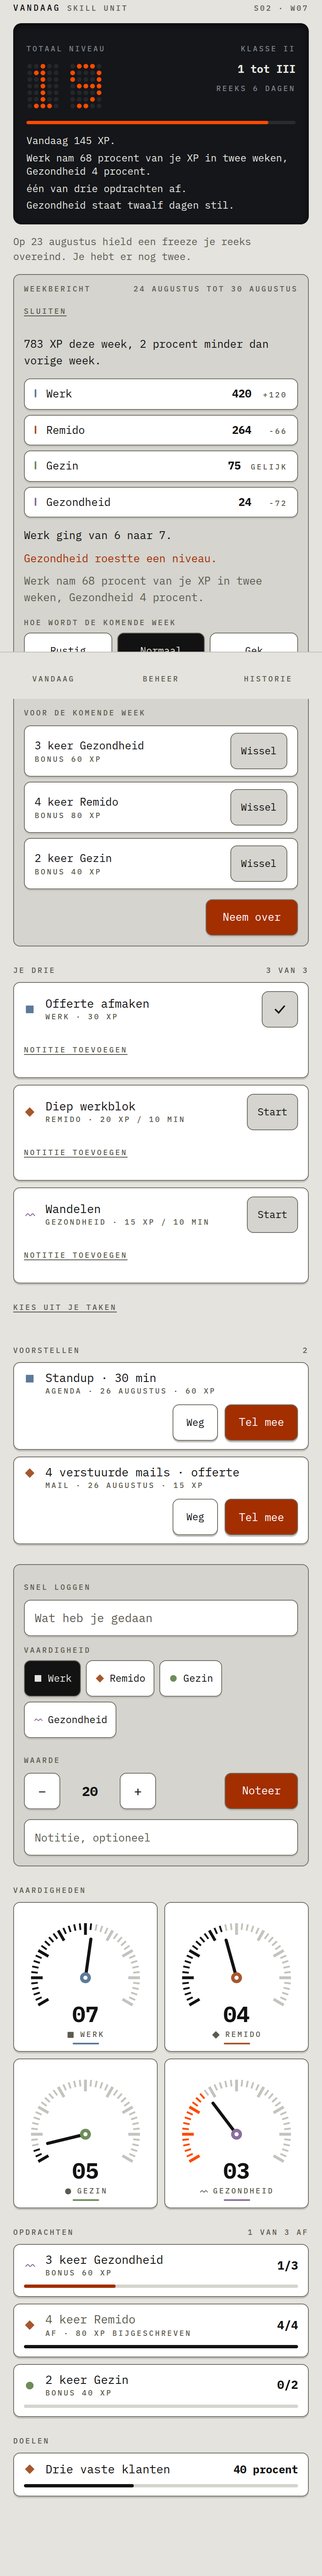
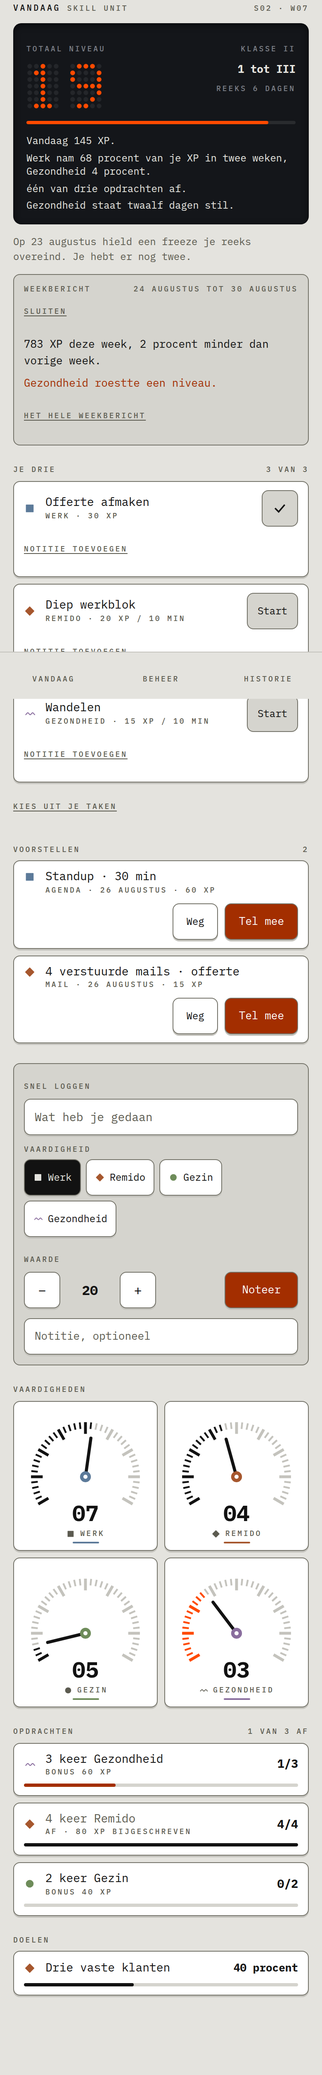
Het weekbericht opent gevouwen
Bevinding 20 was half opgelost: het display stond weer bovenaan, maar het
bericht is zo'n 800 px, dus het eerste vinkje schoof op zondag naar 1197 px —
verder weg dan voor het herstel, doordat de knoppen van 44 px alles hoger
maken. Nu 592 px, oftewel zeven tiende scherm in plaats van anderhalf.

Boven de vouw blijft niet alleen de vergelijkingszin staan maar ook de
roestregel. Alleen de eerste zin tonen zou de slechtste meting van het scherm
achter een tik zetten, en dat is precies wat de roterende statusregel deed.

De knop is in beide standen hetzelfde element, dus uit- en inklappen houdt het
toetsenbord waar het was; gemeten. De dichtgevouwen helft staat op hidden en is
daarmee ook uit de tabvolgorde en uit de voorleesboom, niet alleen uit beeld.

Contrast en axe opnieuw gemeten en onveranderd. Drie controles erbij die
vastleggen dat het bericht gevouwen opent, dat de roestregel erbuiten valt en
dat de knop niet opnieuw wordt aangemaakt.

Claude-Session: https://claude.ai/code/session_015g13ETM1uN4aZvQDkYmTsX

diff --git a/components/vandaag/WeekReport.tsx b/components/vandaag/WeekReport.tsx
@@ -35,6 +35,7 @@ export function WeekReport({
 }) {
   const { mutate } = useOffline();
   const [dismissed, setDismissed] = useState(true);
+  const [expanded, setExpanded] = useState(false);
   const [accepted, setAccepted] = useState(false);
   const [chosen, setChosen] = useState<string[]>(() =>
     candidates.slice(0, QUESTS_PER_WEEK).map((q) => q.skillId),
@@ -117,8 +118,27 @@ export function WeekReport({
         </button>
       </div>
 
+      {/* What stays visible when it is folded: the week in one line, and the
+          skills that rusted or are about to. Folding the report was the point —
+          it is roughly 800px and it stood between the display and the one thing
+          you open the app for — but a bad reading behind a tap is the same
+          mistake the rotating status line made, so those two lines stay out. */}
       <p className="mt-2 text-[13px]">{weekComparison(report)}</p>
 
+      {report.rust.length > 0 ? (
+        <p className="mt-2 text-[13px]" style={{ color: 'var(--signal-text)' }}>
+          {report.rust
+            .map((note) =>
+              note.rusted
+                ? `${note.name} roestte een niveau`
+                : `${note.name} roest over ${spelledDays(note.daysUntilRust)}`,
+            )
+            .join('. ')}
+          .
+        </p>
+      ) : null}
+
+      <div id="weekbericht-rest" hidden={!expanded}>
       {/* ------------------------------------------------------ per skill -- */}
       <ul className="mt-3 space-y-1.5">
         {report.skills.map((skill) => {
@@ -144,19 +164,6 @@ export function WeekReport({
         <p className="mt-3 text-[13px]">
           {report.levelled
             .map((row) => `${row.name} ging van ${row.from} naar ${row.to}`)
-            .join('. ')}
-          .
-        </p>
-      ) : null}
-
-      {report.rust.length > 0 ? (
-        <p className="mt-2 text-[13px]" style={{ color: 'var(--signal-text)' }}>
-          {report.rust
-            .map((note) =>
-              note.rusted
-                ? `${note.name} roestte een niveau`
-                : `${note.name} roest over ${spelledDays(note.daysUntilRust)}`,
-            )
             .join('. ')}
           .
         </p>
@@ -247,6 +254,21 @@ export function WeekReport({
             {accepted ? 'Overgenomen' : 'Neem over'}
           </button>
         </div>
+      </div>
+      </div>
+
+      {/* Same element in both states, so unfolding and folding again keeps the
+          keyboard where it was instead of dropping it to the top. */}
+      <div className="mt-2">
+        <button
+          type="button"
+          onClick={() => setExpanded((open) => !open)}
+          aria-expanded={expanded}
+          aria-controls="weekbericht-rest"
+          className="label-button label underline underline-offset-2"
+        >
+          {expanded ? 'Inklappen' : 'Het hele weekbericht'}
+        </button>
       </div>
     </section>
   );

diff --git a/tests/uiux-audit.test.ts b/tests/uiux-audit.test.ts
@@ -156,6 +156,40 @@ describe('what the sync bar reports', () => {
   });
 });
 
+describe('the Sunday report', () => {
+  const report = read('components/vandaag/WeekReport.tsx');
+
+  it('opens folded, so it does not stand between the display and a task', () => {
+    // Roughly 800px of it used to sit above everything on a Sunday.
+    expect(report).toContain('const [expanded, setExpanded] = useState(false)');
+    expect(report).toContain('aria-expanded={expanded}');
+    expect(report).toContain("aria-controls=\"weekbericht-rest\"");
+    // hidden, not display:none by class: it leaves the tab order too.
+    expect(report).toContain('hidden={!expanded}');
+  });
+
+  it('keeps a bad reading out of the fold', () => {
+    // Hiding the rust line behind a tap is the mistake the rotating status
+    // line made. The comparison and the rust note stay above it.
+    const fold = report.indexOf('<div id="weekbericht-rest"');
+    expect(fold).toBeGreaterThan(-1);
+    const summary = report.slice(report.indexOf('weekComparison(report)'), fold);
+    expect(summary).toContain('report.rust.length > 0');
+  });
+
+  it('keeps the toggle mounted, so folding does not drop the keyboard', () => {
+    // One button, below the folded part, rendered in both states — React then
+    // reuses the DOM node and the focus rides along.
+    expect(report).toContain("{expanded ? 'Inklappen' : 'Het hele weekbericht'}");
+    expect(report.indexOf("'Het hele weekbericht'")).toBeGreaterThan(
+      report.indexOf("'Neem over'"),
+    );
+    // The only place `expanded` decides what to render is that label: the body
+    // is hidden, not unmounted, and the toggle is never conditional.
+    expect(report.match(/expanded \?/g)).toHaveLength(1);
+  });
+});
+
 describe('the display', () => {
   it('shows every reading at once instead of rotating through them', () => {
     // Six seconds a line, forever, with no way to pause it (WCAG 2.2.2) — and

diff --git a/docs/audits/uiux-2026-08-26.md b/docs/audits/uiux-2026-08-26.md
@@ -931,6 +931,7 @@ getallen naast elkaar te leggen zijn.
 | Zijwaartse overloop bij een naam zonder spaties | 556 px op een scherm van 320 | **geen, op 390 en op 320** |
 | Statusregel | roteert elke 6 s, geen pauze | **alle regels tegelijk, statisch in beide bewegingsvoorkeuren** |
 | Display op zondag | op 793 px | **op 28 px** |
+| Eerste vinkje op zondag | 1070 px (1,3 scherm) | **592 px (0,7 scherm)** |
 | Tests | 507 | **549** |
 
 Productiebouw draait, `npm run lint` en `tsc --noEmit` zijn schoon.
@@ -942,7 +943,7 @@ Productiebouw draait, `npm run lint` en `tsc --noEmit` zijn schoon.
 | 13, de randen | hairline op `raised` en `recess` | één token `--outline`, 1 px rondom elk vlak in de app |
 | 3, de statusregel | alle regels onder elkaar | rotatie eruit, het display wordt twee tot drie regels hoger |
 | 7, verwijderen | twee stappen met de kosten erbij | geen schemawijziging; `ConfirmAction` als gedeelde vorm |
-| 20, zondag | onder het display | weekbericht verhuist naar tussen display en Je drie |
+| 20, zondag | onder het display, daarna alsnog ingeklapt | verhuist naar tussen display en Je drie, en opent gevouwen |
 
 ## Per bevinding
 
@@ -1057,12 +1058,23 @@ bundel van Vandaag).
 **19. Sectiekoppen** zijn `h3`: Sessie, Export, Terugzetten, Voorstellen bij
 dit doel, Op vandaag zetten, Op het beginscherm.
 
-**20. Zondag.** Het weekbericht staat onder het display. Het display staat
-weer op 28 px, elke dag van de week. Het eerste vinkje staat op zondag op
-1197 px — dat is 127 px verder dan vóór het herstel, doordat de knoppen van
-44 px alles hoger maken. Het bericht is nog altijd zo'n 800 px, dus als het
-aftekenen op zondag echt binnen een scherm moet, is inklappen de enige weg
-daarheen; dat was de andere keuze en die is niet gemaakt.
+**20. Zondag.** Het weekbericht staat onder het display en opent ingeklapt.
+Eerst alleen verhuisd: het display stond weer op 28 px, maar het eerste vinkje
+schoof naar 1197 px, want het bericht is zo'n 800 px en de knoppen van 44 px
+maken alles hoger. Daarna alsnog gevouwen, en dat is wat het kost:
+
+| | Voor het herstel | Alleen verhuisd | Ingeklapt |
+| --- | --- | --- | --- |
+| Display | 793 px | 28 px | 28 px |
+| Eerste vinkje | 1070 px | 1197 px | **592 px** |
+| Pagina | 2860 px | 3163 px | **2506 px** |
+
+Wat boven de vouw blijft staan is de vergelijkingszin én de roestregel. Alleen
+de eerste zin tonen zou de slechtste meting van het scherm achter een tik
+zetten, en dat is precies wat de roterende statusregel deed. `Het hele
+weekbericht` klapt de rest uit; de knop is in beide standen hetzelfde element,
+dus het toetsenbord houdt zijn plek, en de dichtgevouwen helft staat op
+`hidden` en is daarmee ook uit de tabvolgorde en uit de voorleesboom.
 
 **21. De lege Vandaag** verwijst niet meer naar snel loggen als er geen
 vaardigheid aan staat, en snel loggen houdt in die stand zijn kop.

diff --git a/README.md b/README.md
@@ -500,6 +500,15 @@ identical.
       the rust job could not write at all. See
       [The rules](#the-rules) for what changed.
 
+- [x] **Interface audit and repair.** A screen-by-screen audit of tone,
+      accessibility, edge states, usability and consistency
+      (`docs/audits/uiux-2026-08-26.md`), measured in a real browser in both
+      palettes, and the twenty-seven findings it produced plus four the repair
+      itself turned up. The headline is the measuring half of the governing
+      rule: the sync bar named a cause it had never measured, the display
+      rotated away two thirds of its readings, and the quest reading it had
+      been computing since phase four was never wired to the screen.
+
 Rust and freeze storage were open after phase 1 and are now settled — see
 [The rules](#the-rules). The mechanics themselves (the decay job, the weekly
 grant, the Sunday report) land in phase 4; the schema, the domain functions and

diff --git a/docs/audits/screenshots-2026-08-26-verholpen/INDEX.md b/docs/audits/screenshots-2026-08-26-verholpen/INDEX.md
@@ -21,3 +21,4 @@ en hetzelfde harnas, zodat de twee naast elkaar te leggen zijn.
 | `verholpen-e-doel-verwijderen.png` | 7 — verwijderen vraagt nu eerst | `bewijs-k-doel-verwijderen.png` |
 | `verholpen-f-display.png` | 3 en leidende regel c — alle metingen tegelijk, met de opdrachtenstand | `bewijs-g-zondagsrapport.png` |
 | `verholpen-g-offline-wachtrij.png` | 2 — de balk noemt de gemeten oorzaak | `bewijs-l-online-maar-wacht-op-verbinding.png` |
+| `verholpen-h-weekbericht-ingeklapt.png` | 20 — het weekbericht opent gevouwen, met de roestregel erboven | `bewijs-g-zondagsrapport.png` |
